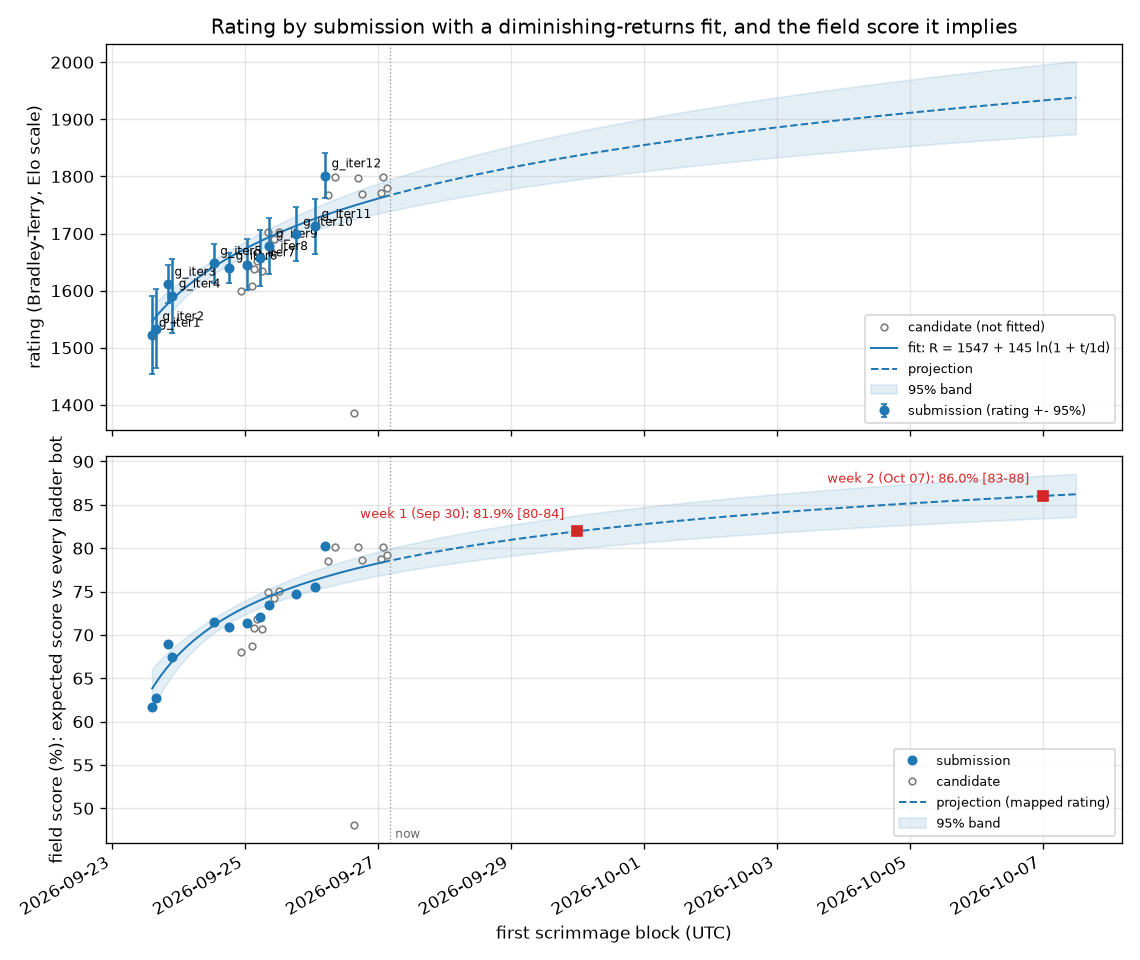
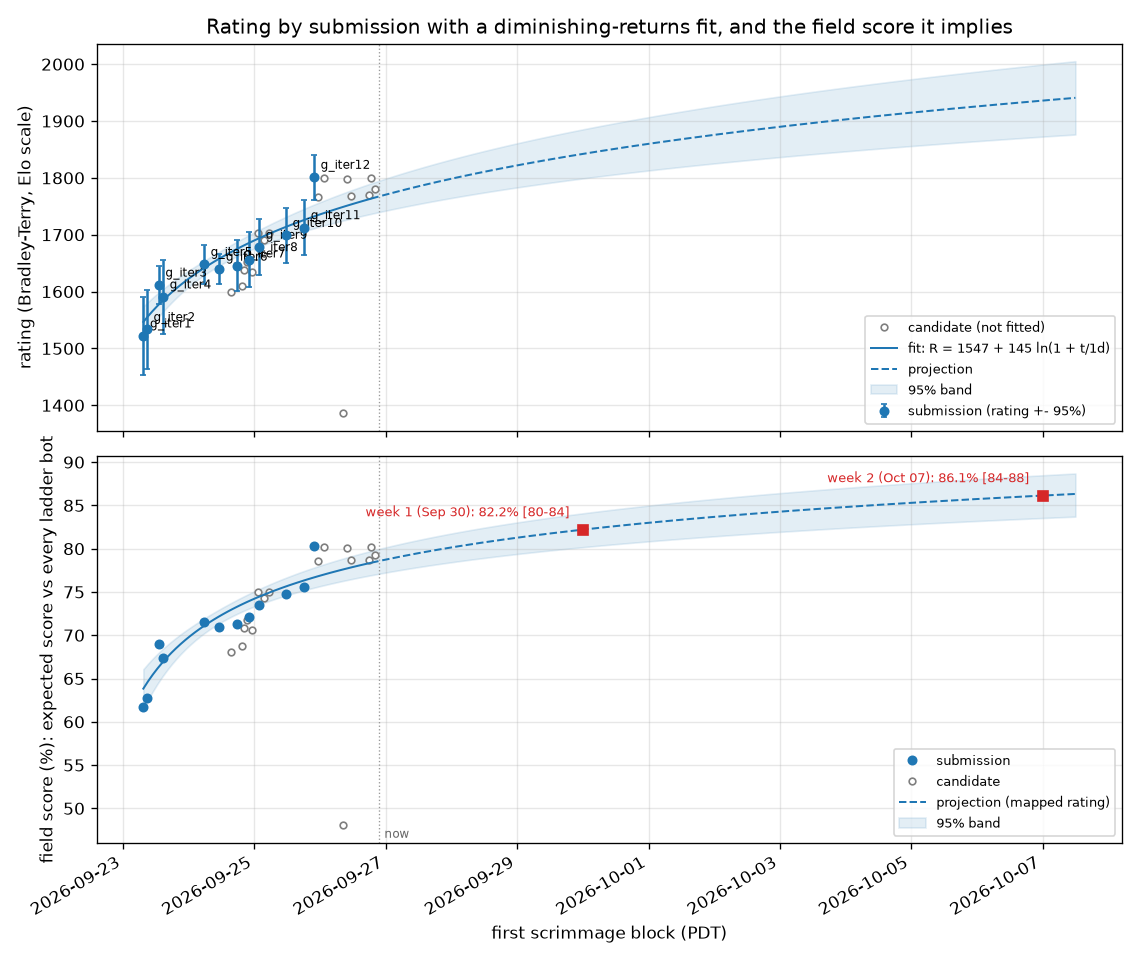
PROMPTS 50: PDT for every time consideration -- today's dates corrected, the field-score chart on PDT, HANDOFF note
Claude-Session: https://claude.ai/code/session_015tNyF5ucwWW1mudpEQTT25

diff --git a/tools/field-score.py b/tools/field-score.py
@@ -11,6 +11,11 @@ scores through elolib.field_score against the current ladder ratings, so the pro
 construction. Every build is a point, dated by its first scrimmage block; candidates are shown hollow and are not
 fitted. Regenerated by post-block.sh after every block, so the projection firms up as the record grows."""
 import argparse, os, re, sys, datetime as dt
+from zoneinfo import ZoneInfo
+# PROMPTS 50 (2026-09-26): every time consideration is in the owner's timezone, PDT (America/Los_Angeles). Run ids are the
+# machines' clock stamps (UTC); they are converted here. Times are naive PDT after conversion.
+PDT = ZoneInfo('America/Los_Angeles'); UTC = dt.timezone.utc
+def to_pdt(d): return d.replace(tzinfo=UTC).astimezone(PDT).replace(tzinfo=None)
 import numpy as np
 here = os.path.dirname(os.path.abspath(__file__)); repo = os.path.dirname(here)
 sys.path.insert(0, here); import elolib
@@ -21,7 +26,7 @@ first = {}
 for r in rows:
     for b in (r['teamA'], r['teamB']):
         if elolib.is_ours(b):
-            d = dt.datetime.strptime(r['run'][:15], '%Y%m%d-%H%M%S'); first[b] = min(first.get(b, d), d)
+            d = to_pdt(dt.datetime.strptime(r['run'][:15], '%Y%m%d-%H%M%S')); first[b] = min(first.get(b, d), d)
 pts = sorted((first[p], p) for p in first if p in R and games.get(p, 0) >= 48)
 subs = [(d, p) for d, p in pts if re.match(r'us:g_iter\d+$', p)]
 if len(subs) < 3: sys.exit('fewer than three submissions to fit')
@@ -33,12 +38,12 @@ xs = np.array([np.log1p(days(d) / o.tau) for d, _ in subs]); ys = np.array([R[p]
 (aa, r0), cov = np.polyfit(xs, ys, 1, w=w, cov='unscaled')
 def proj(t):
     x = np.log1p(t / o.tau); r = r0 + aa * x; s = np.sqrt(cov[0, 0] * x * x + 2 * cov[0, 1] * x + cov[1, 1]); return r, 1.96 * s
-now = dt.datetime.utcnow(); tn = days(now)
+now = dt.datetime.now(PDT).replace(tzinfo=None); tn = days(now)
 # The projection horizons are the ends of the project's first and second weeks (PROMPTS 46: the project began
 # 2026-09-23, so one week is September 30 and two weeks October 7), not "now + 7 / 14 days".
-START = dt.datetime(2026, 9, 23); HORIZONS = [('week 1', START + dt.timedelta(days=7)), ('week 2', START + dt.timedelta(days=14))]
+START = dt.datetime(2026, 9, 23); HORIZONS = [('week 1', START + dt.timedelta(days=7)), ('week 2', START + dt.timedelta(days=14))]   # PDT
 print('submissions:', ', '.join(f'{p[3:]} {R[p]:.0f}+-{1.96 * SE[p]:.0f} ({d:%m-%d %H:%M}) {score(R[p]):.1f}%' for d, p in subs))
-print(f'rating fit R = {r0:.0f} + {aa:.0f} ln(1 + t/{o.tau:g} d) (t in days from {t0:%Y-%m-%d %H:%M} UTC)')
+print(f'rating fit R = {r0:.0f} + {aa:.0f} ln(1 + t/{o.tau:g} d) (t in days from {t0:%Y-%m-%d %H:%M} PDT)')
 r, e = proj(tn); print(f'  now ({now:%b %d}): rating {r:.0f} +- {e:.0f}  ->  field score {score(r):.1f}% [{score(r - e):.1f}%, {score(r + e):.1f}%]')
 for name, when in HORIZONS:
     r, e = proj(days(when)); print(f'  {name} ({when:%b %d}): rating {r:.0f} +- {e:.0f}  ->  field score {score(r):.1f}% [{score(r - e):.1f}%, {score(r + e):.1f}%]')
@@ -66,5 +71,5 @@ for name, d in HORIZONS:
     r, e = proj(days(d)); ax2.plot([d], [score(r)], 's', color='tab:red', ms=6)
     ax2.annotate(f'{name} ({d:%b %d}): {score(r):.1f}% [{score(r - e):.0f}-{score(r + e):.0f}]', (d, score(r)), textcoords='offset points', xytext=(-8, 8), fontsize=8, ha='right', color='tab:red')
 ax2.axvline(now, color='0.6', lw=0.8, ls=':'); ax2.annotate('now', (now, ax2.get_ylim()[0]), textcoords='offset points', xytext=(3, 3), fontsize=7, color='0.4')
-ax2.set_ylabel('field score (%): expected score vs every ladder bot'); ax2.set_xlabel('first scrimmage block (UTC)'); ax2.grid(alpha=.3); ax2.legend(fontsize=8, loc='lower right')
+ax2.set_ylabel('field score (%): expected score vs every ladder bot'); ax2.set_xlabel('first scrimmage block (PDT)'); ax2.grid(alpha=.3); ax2.legend(fontsize=8, loc='lower right')
 fig.autofmt_xdate(); fig.tight_layout(); fig.savefig(o.plot, dpi=120); print('wrote', o.plot)

diff --git a/TRAINING_LOG.md b/TRAINING_LOG.md
@@ -2884,18 +2884,18 @@ tightening toward the bots that beat us most; single blocks swing from 4 to 14 o
 
 ## Ledger (closed directions)
 
-- **The keep, the shield and the late raid (Iterations 86-87, 2026-09-27)** -- masons named by the school raise a 3x3
+- **The keep, the shield and the late raid (Iterations 86-87, 2026-09-26)** -- masons named by the school raise a 3x3
   platform with a door; any miner keeps it; its center feeds the flooded-tile shield (the jointly necessary pair, §84)
   and, from r1400, a raid on the enemy wall with the idle soup. Mechanisms all fire (keepers on 7 of 10 maps; shields in
   18 of 68 field games at r1200; 3-15 enemy wall landscapers lifted). Ladder: cand86s3 1805 +- 46 on 240 (= g_iter12),
   cand87 1780 +- 46 on 240 (below). Kind: level. With 81-85 it closes the incremental line on g_iter12's architecture
   (wall first, economy dying at the flood); the next line is a rewrite (R1).
 
-- **The vaporator bank (Iteration 84, 2026-09-27)** -- VAPORATOR_BANK 650 -> 500. Diagnostic: more vaporators on five
+- **The vaporator bank (Iteration 84, 2026-09-26)** -- VAPORATOR_BANK 650 -> 500. Diagnostic: more vaporators on five
   maps of ten. Gate84 2-8 discordant in 320 pairs (p = 0.11 against). Kind: not kept; with gate81 (3-9) and stage 5 of
   Iteration 81, the third measurement that the mirror's wall race punishes any soup taken before the school drowns.
 
-- **Vaporators on natural high ground (Iteration 83, 2026-09-26/27)** -- the builder builds on a sensed natural tile of
+- **Vaporators on natural high ground (Iteration 83, 2026-09-26)** -- the builder builds on a sensed natural tile of
   12+ at Chebyshev 3-8 from a 500 bank. Five diagnostic rounds on eight high maps: never fired. Four defects fixed (an
   unending walk, cooldown refusals, a bytecode-overrunning scan, a scan every turn while the builder mined far away);
   after them the builder is rarely home with 500 banked, and when it is, no buildable high tile (a neighbour within 3
@@ -3847,7 +3847,7 @@ then the paired gate.
 **Diagnostic 85: identical to the control on all ten maps** -- the forward school never reaches eight landscapers before
 the race is decided; the cap does not bind. Does not fire; no gate (rule 5). Closed. `src/bot` = g_iter12.
 
-**PROMPTS 48 (2026-09-27): decide without the owner and keep trying.** Decision, from the measurements: the next line is
+**PROMPTS 48 (2026-09-26): decide without the owner and keep trying.** Decision, from the measurements: the next line is
 a structure paid for with nothing the wall race needs (three measurements say any pre-flood soup diversion costs the
 mirror). **Iteration 86, the keep (`src/cand86` = g_iter12 + the keep, stage 1):** the school's eight attackers (labour
 the wall never uses) become masons that raise a 5x5 platform six out from home (away from the map centre) ahead of the

diff --git a/PROMPTS.md b/PROMPTS.md
@@ -206,10 +206,14 @@ By the way, you have the wrong dates on the field-score graph.  One week is Sept
 
 How is cand81s8 looking?
 
-## 48. 2026-09-27
+## 48. 2026-09-26
 
 No, you will make a decision without my input and you will keep trying.
 
-## 49. 2026-09-27
+## 49. 2026-09-26
 
 Repeating a portion from the initial prompt: "If you get stuck for ideas, review principles that have worked in other years.  There will be times when no attempts are successful for a long period.  At those times, it’s important to keep trying new things, and to not give up.  If you believe that a complete rewrite will help, then you should do so."
+
+## 50. 2026-09-26
+
+BTW I'm in the PDT timezone.  Can you make sure that all time considerations are based on that timezone?

diff --git a/DESIGN.md b/DESIGN.md
@@ -61,7 +61,7 @@ the gate itself is the last target (a 16th seat), which also tells the school to
 `C.RAID_ROUND` the center builds drones without cap; they gather at `C.RAID_RALLY` from the enemy
 HQ guess and charge when `C.RAID_SIZE` are together, lifting enemy seats into the water.
 
-## R1 -- the rewrite: lattice first (decided 2026-09-27, PROMPTS 48-49)
+## R1 -- the rewrite: lattice first (decided 2026-09-26, PROMPTS 48-49)
 
 **Why.** Seven iterations on g_iter12's architecture (81-87, TRAINING_LOG) ended level or below; g_iter12's wall-first
 design plateaus at ~1800 because its economy dies at the flood (0.1-0.4 vaporators a game; 500-10,000 soup idle from

diff --git a/HANDOFF.md b/HANDOFF.md
@@ -3,6 +3,10 @@
 Read `CLAUDE.md`, then `TRAINING_ALGORITHM.md`, `RULES.md`, this file, then the tail of
 `TRAINING_LOG.md`.
 
+**Timezone (PROMPTS 50): every time consideration is in the owner's timezone, PDT (America/Los_Angeles).** Both machines
+run on UTC; run ids (`YYYYmmdd-HHMMSS`) are UTC machine stamps; dates written in the logs, PROMPTS, ledger and the chart
+(`tools/field-score.py` converts) are PDT. Entries before 2026-09-26 17:00 PDT were dated by the UTC clock.
+
 ## State at 2026-09-26 afternoon (Opus 5.5; read this block first)
 
 - **Incumbent `src/g_iter12`** (1818 +- 39 over 336 games, rank 13 of 88, field score 80.4%). Prompts recorded
